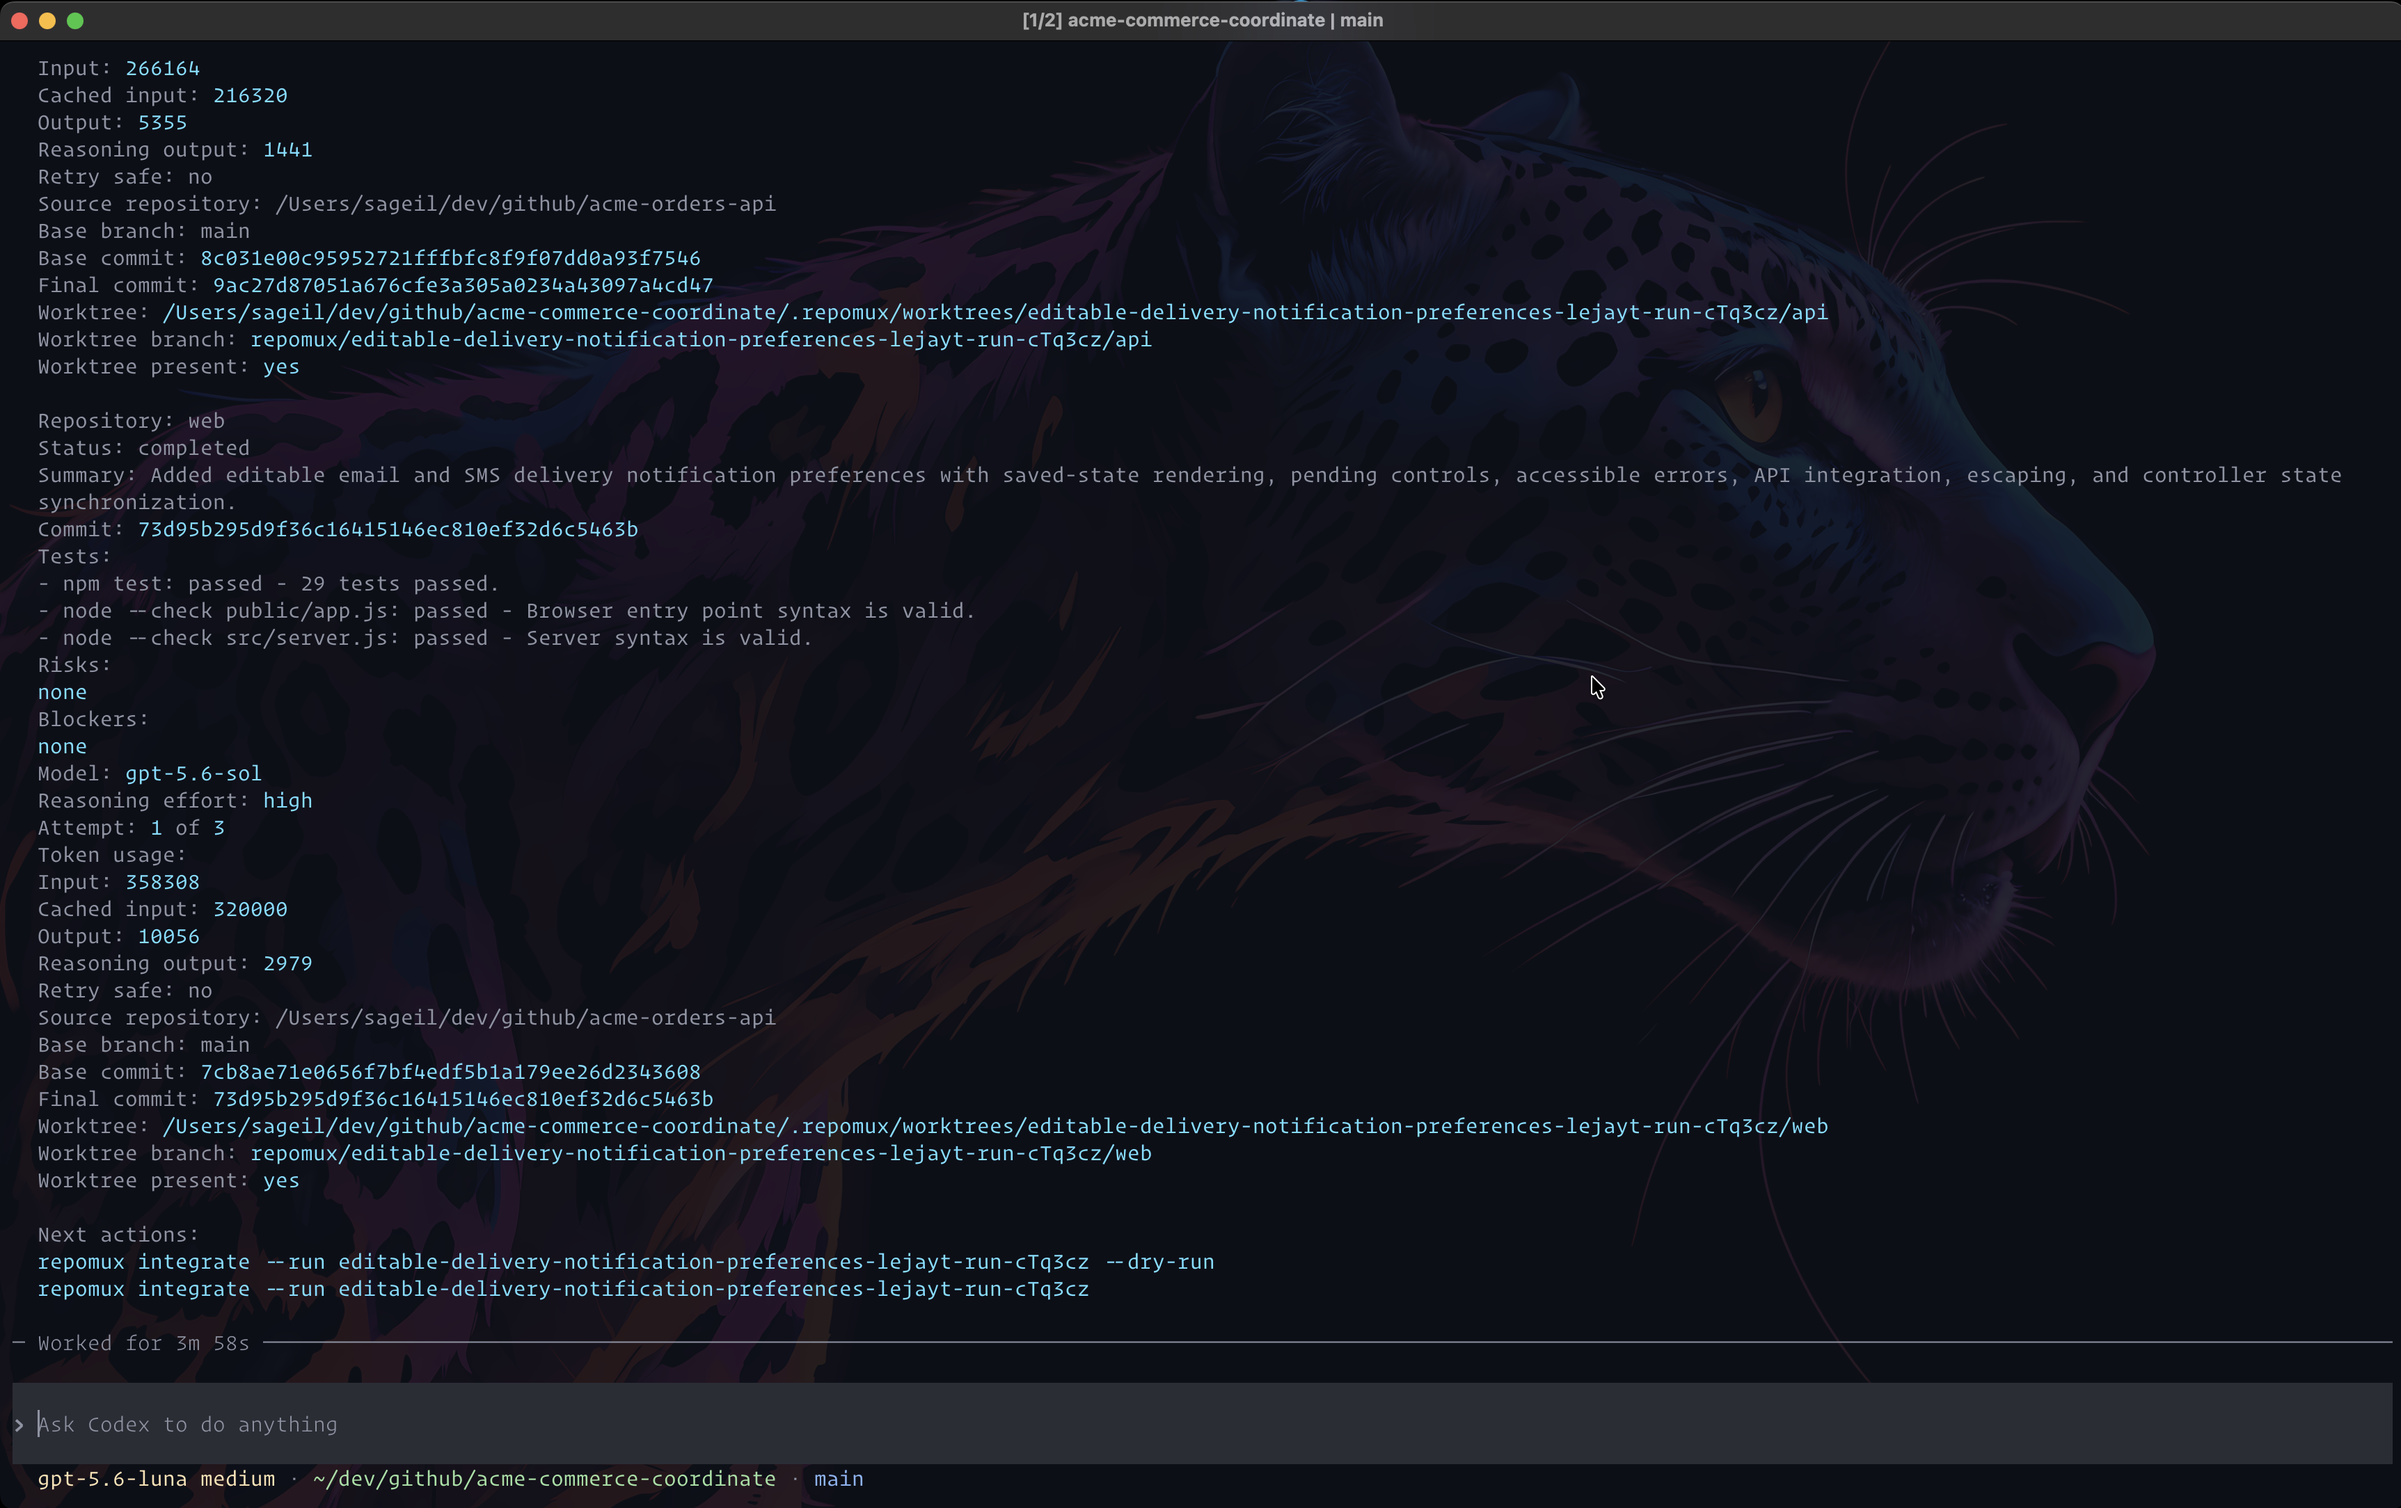
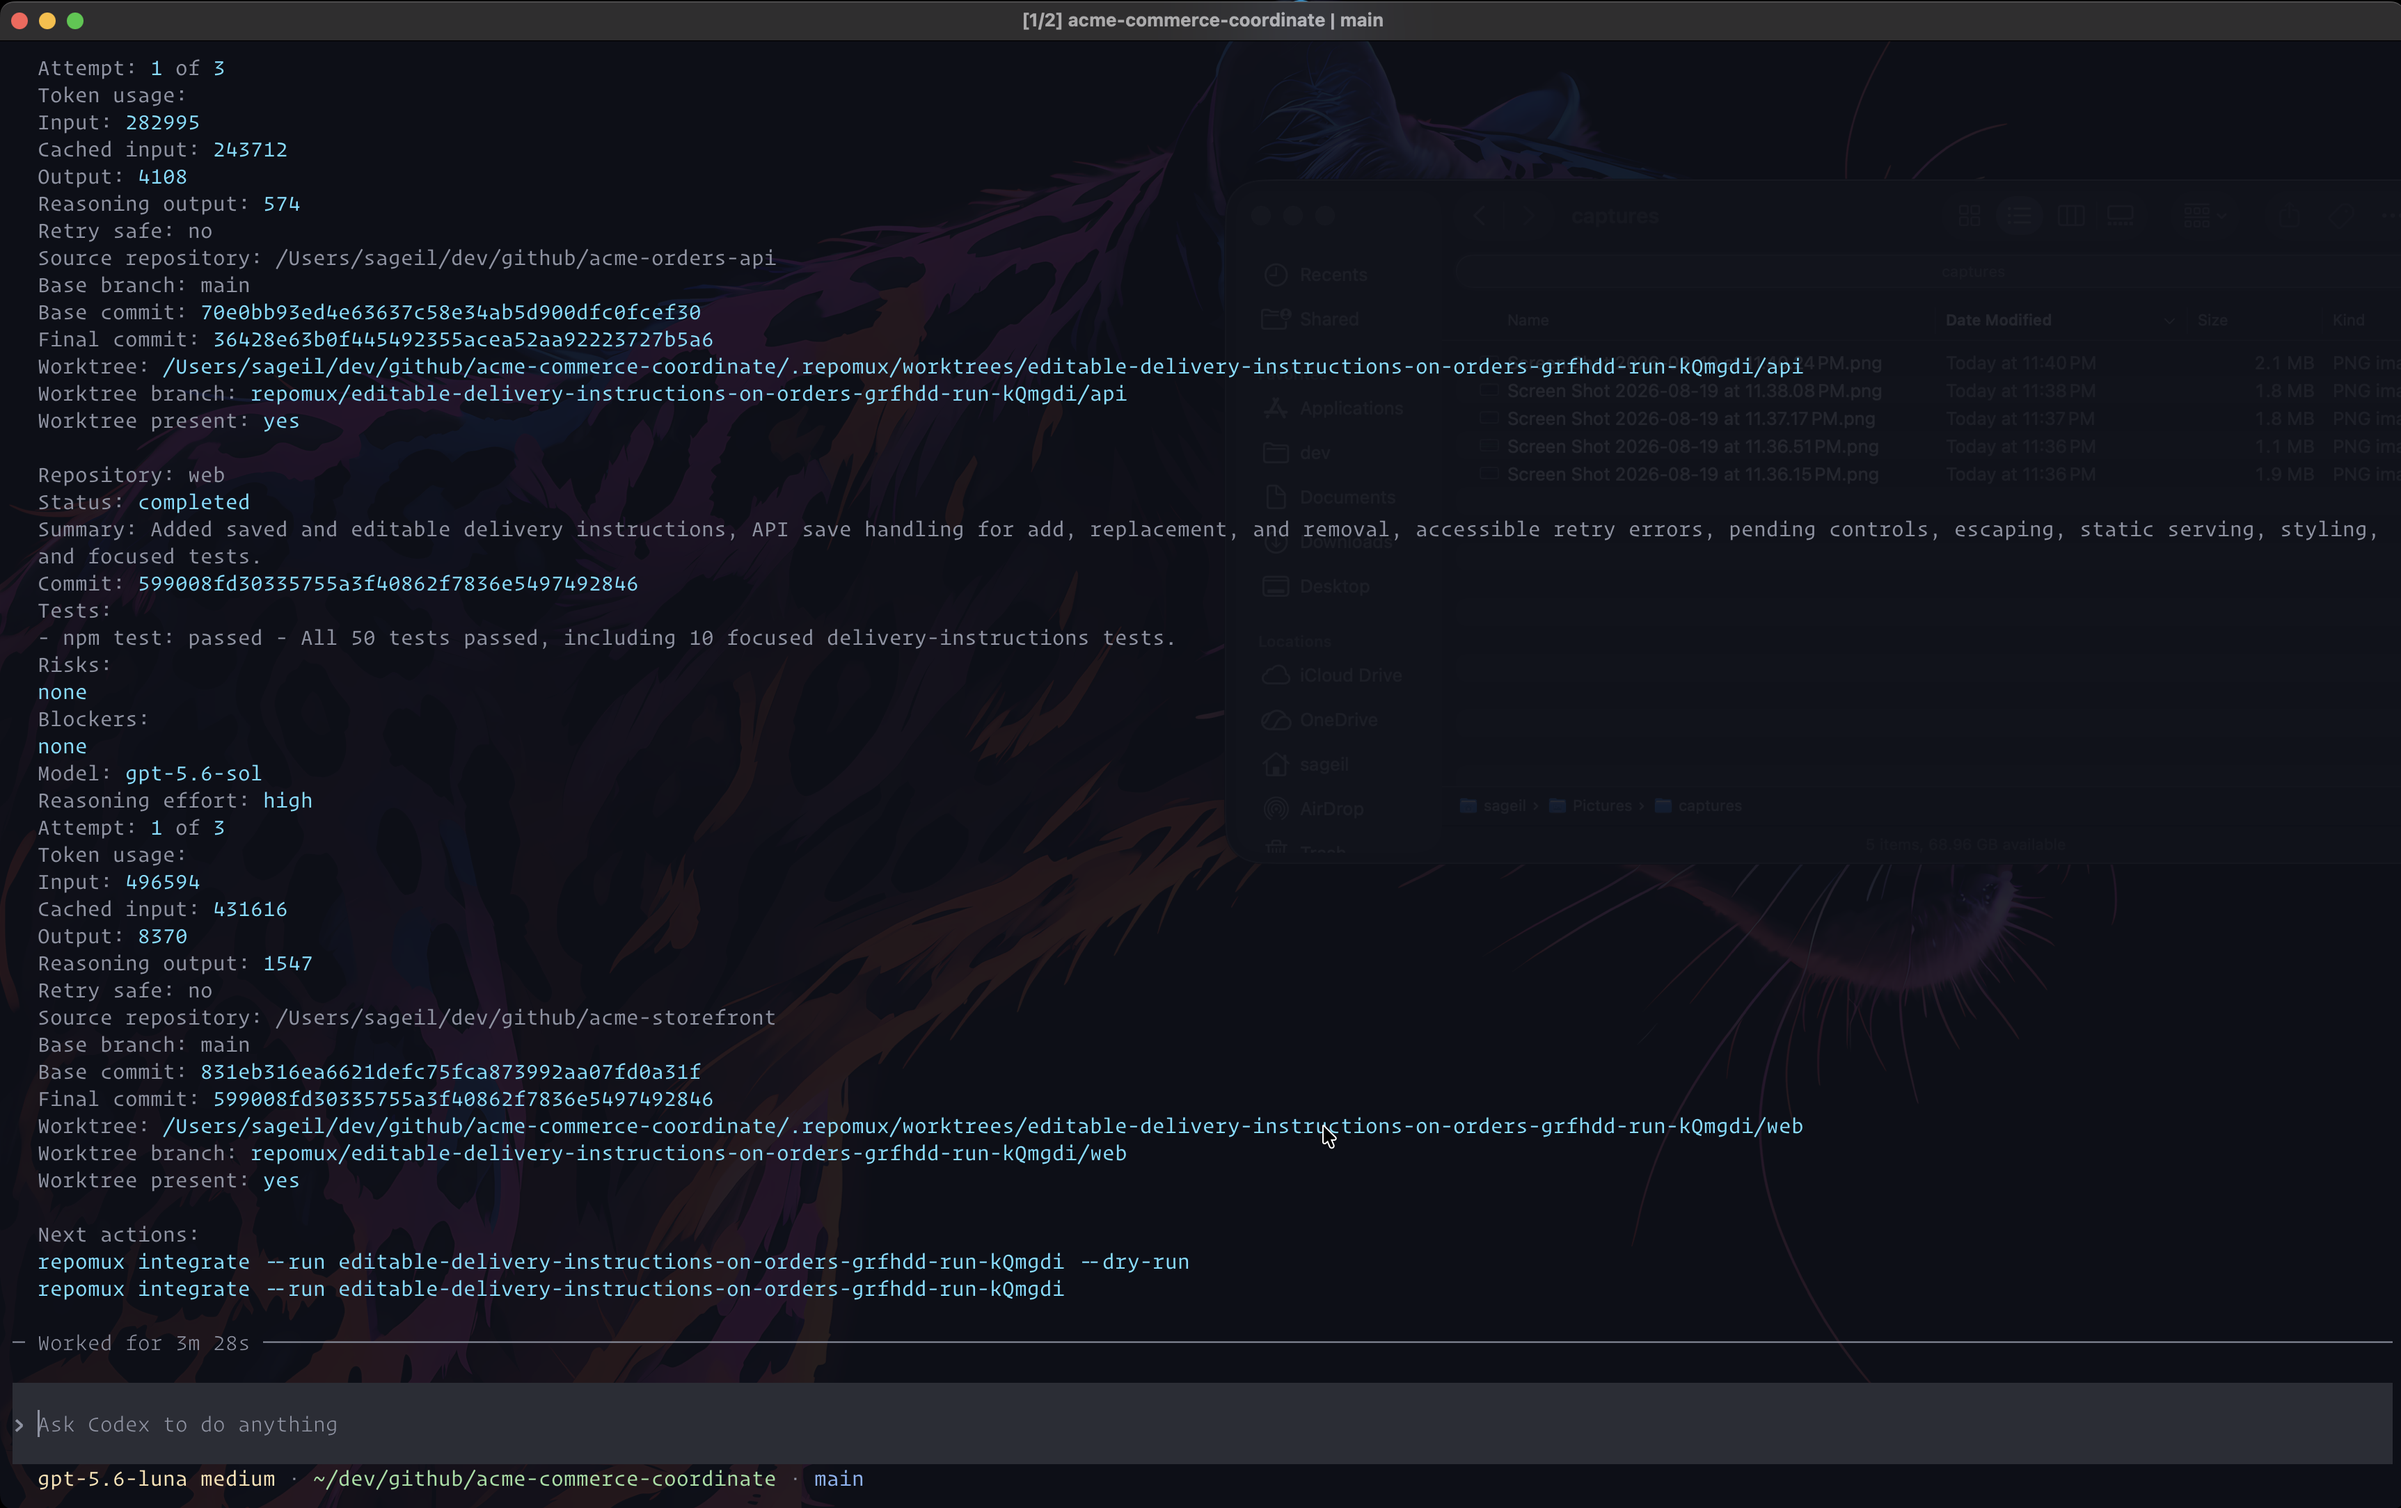
docs(readme): refresh workflow screenshots

diff --git a/README.md b/README.md
@@ -200,67 +200,68 @@ $repomux Add editable delivery-notification preferences to orders. Customers can
 
 Codex prepares the feature files and shows you one proposal before RepoMux starts the repository agents.
 
-## See the complete workflow
+## Follow a feature from request to integration
 
-These captures follow a delivery-notification feature from the first request to local integration.
+These captures show a real delivery-instructions feature as it moves through RepoMux.
+The workflow begins with one short request and ends with the finished changes on the local API and storefront branches.
 
-### 1. Describe the outcome
+### 1. Ask for the desired outcome
 
-Tell Codex what the customer should be able to do.
-You do not need to plan the change for each repository yourself.
+Start RepoMux from the coordination repository, then tell Codex what the customer should be able to do by startig with `$repomux` followed by the prompt
+Codex finds the participating repositories and reads the relevant code before it prepares the work.
 
-![Ask RepoMux to add editable delivery-notification preferences](assets/workflow-screen-captures/start-feature-request.png)
+![Request editable delivery instructions and inspect the participating repositories](assets/workflow-screen-captures/request-delivery-instructions.png)
 
-### 2. Let Codex prepare the work
+### 2. See how the work will be divided
 
-Codex finds the registered API and storefront repositories, checks the relevant code, and creates the feature files.
+Codex creates one feature request and one focused assignment for each participating repository.
+The assignments describe the API behavior, storefront behavior, checks, and local commit messages before any product code changes.
 
-![Codex inspects the registered repositories and creates the feature files](assets/workflow-screen-captures/inspect-registered-repositories.png)
+![Prepare the API and storefront delivery-instructions assignments](assets/workflow-screen-captures/prepare-delivery-instructions-assignments.png)
 
-It then writes one focused assignment for each repository.
-Each assignment defines the expected result, shared API behavior, verification command, and local commit message.
+Codex then brings both assignments together in one proposal.
+Read it to confirm that the repositories agree on the request shape, saved state, and failure behavior.
 
-![Codex prepares the API and storefront assignments](assets/workflow-screen-captures/prepare-repository-assignments.png)
+![Review and approve the delivery-instructions proposal](assets/workflow-screen-captures/review-and-approve-proposal.png)
 
-### 3. Review and approve the proposal
+### 3. Let RepoMux run the repository agents
 
-Nothing changes in the product repositories until you approve the proposal.
-The proposal puts the repository outcomes, shared behavior, verification commands, and commit messages in one place.
+After approval, RepoMux creates an isolated worktree for each repository and starts both agents.
+The agents can work at the same time, while the normal API and storefront checkouts stay unchanged.
 
-![Review the complete coordination proposal](assets/workflow-screen-captures/review-coordination-proposal.png)
+![Run the API and storefront repository agents in isolated worktrees](assets/workflow-screen-captures/run-repository-agents.png)
 
-After you approve it, RepoMux creates isolated worktrees and starts the repository agents.
+### 4. Read the result before you integrate
 
-![Approve the proposal and start the repository agents](assets/workflow-screen-captures/approve-and-start-repository-agents.png)
+When both agents finish, RepoMux returns one report for the run.
+The first part shows the API result, including its commit, checks, model, reasoning effort, token usage, and worktree state.
 
-### 4. Read the complete run report
+![Review the API result in the RepoMux run report](assets/workflow-screen-captures/review-api-run-result.png)
 
-When the work finishes, RepoMux creates one report for the complete run.
-The API result shows its commit, verification result, model, reasoning effort, token usage, and Git state.
+The rest of the report shows the storefront result and the exact commands you can run next.
+See [Understand token usage](TOKEN-USAGE.md) for more detail about the recorded token counts.
 
-![Review the completed API result](assets/workflow-screen-captures/review-api-result.png)
+![Review the storefront result and integration commands](assets/workflow-screen-captures/review-storefront-result-and-next-actions.png)
 
-The report then shows the storefront result and the commands for the next step.
-See [Understand token usage](TOKEN-USAGE.md) to learn how RepoMux keeps repository-agent context separate and records token usage.
+### 5. Review the code in your Git diff viewer
 
-![Review the storefront result and the next actions](assets/workflow-screen-captures/review-storefront-result-and-next-actions.png)
+Leave Codex open and run the integration command in your terminal.
+Add `--show-diffs` to inspect the repository changes before RepoMux asks for confirmation.
 
-### 5. Review the integration plan
+![Start local integration and request the repository diffs](assets/workflow-screen-captures/start-integration-with-diffs.png)
 
-When you are ready, run the integration command from the report.
+RepoMux uses native `git diff`, so the review opens with your Git pager, colors, and display settings.
+This example uses a side-by-side diff to review the storefront changes.
 
-![Start local integration for the completed run](assets/workflow-screen-captures/start-local-integration.png)
+![Review the delivery-instructions changes in the configured Git diff viewer](assets/workflow-screen-captures/review-integration-diff.png)
 
-RepoMux checks the feature documents and repository commits, then shows every planned local change.
+### 6. Confirm local integration
 
-![Review the local integration plan before confirming it](assets/workflow-screen-captures/review-integration-plan.png)
-
-### 6. Complete local integration
-
-Confirm the plan to commit the feature documents and fast-forward both local product repository branches.
+After the diff closes, RepoMux asks whether to continue.
+Confirm to commit the feature documents and fast-forward the local product branches to their completed feature commits.
 RepoMux does not push the changes, and it keeps the feature worktrees available.
 
-![Complete local integration and keep the feature worktrees](assets/workflow-screen-captures/complete-local-integration.png)
+![Confirm integration and update the local API and storefront branches](assets/workflow-screen-captures/confirm-local-integration.png)
 
 ## What RepoMux creates for a feature
 
